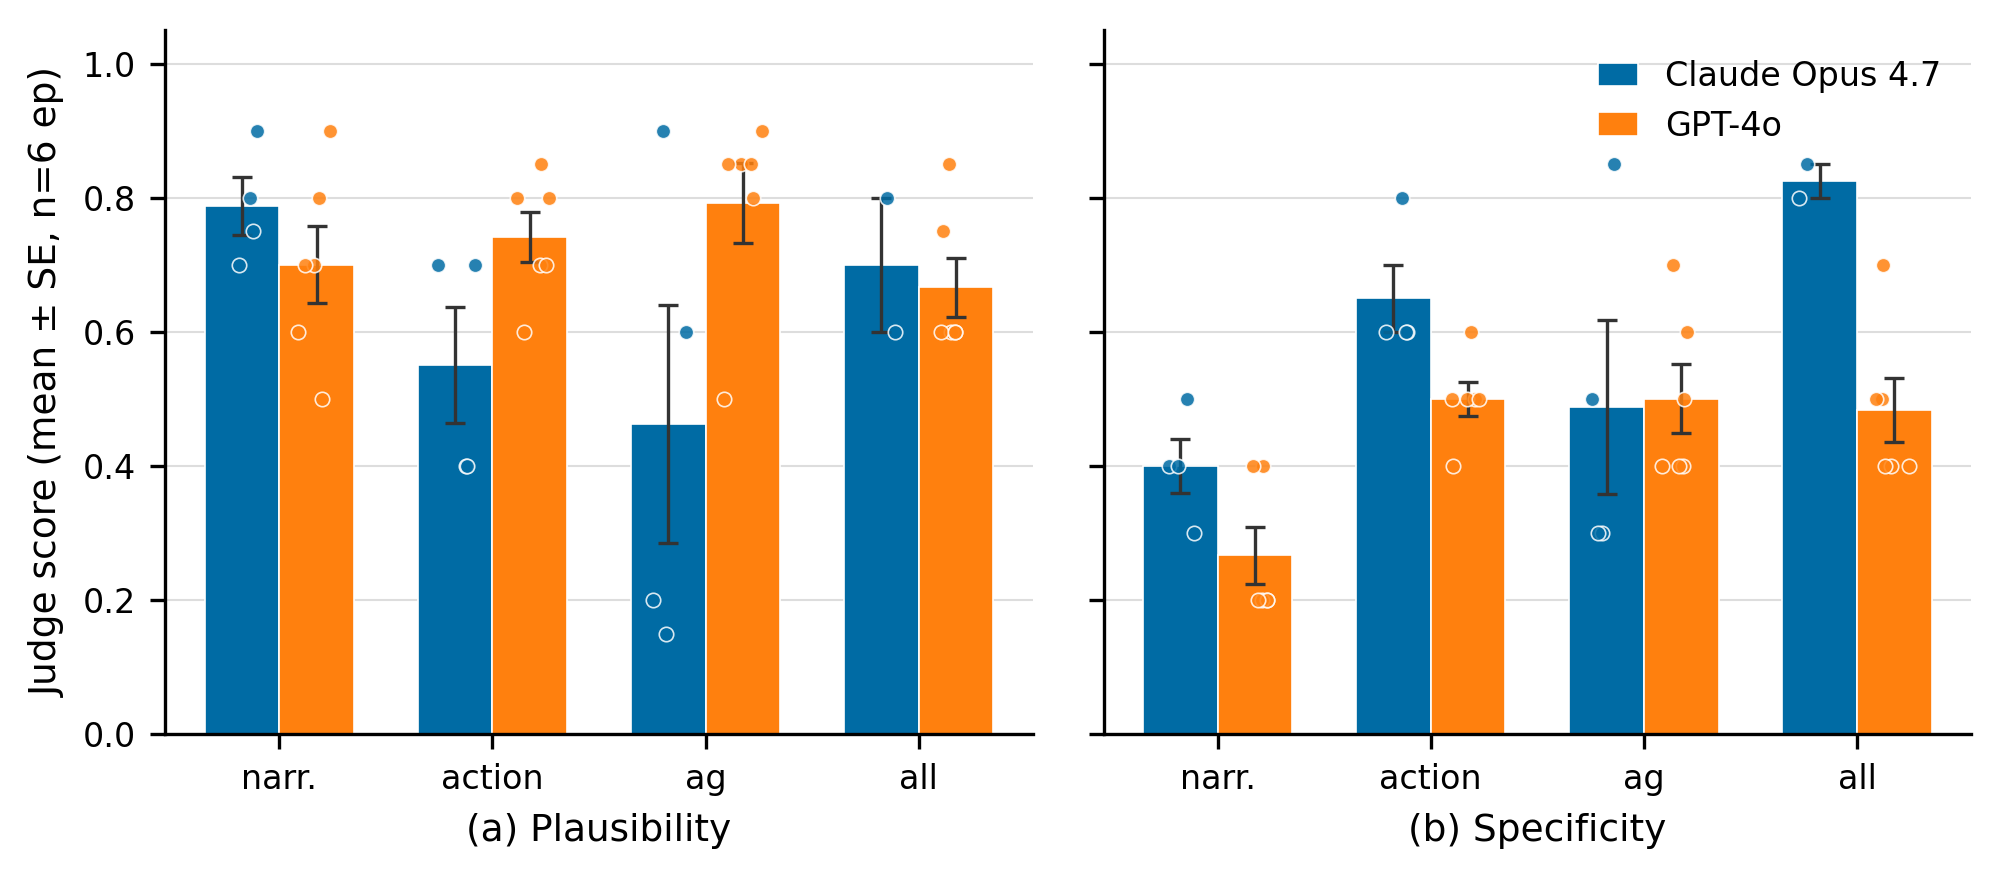
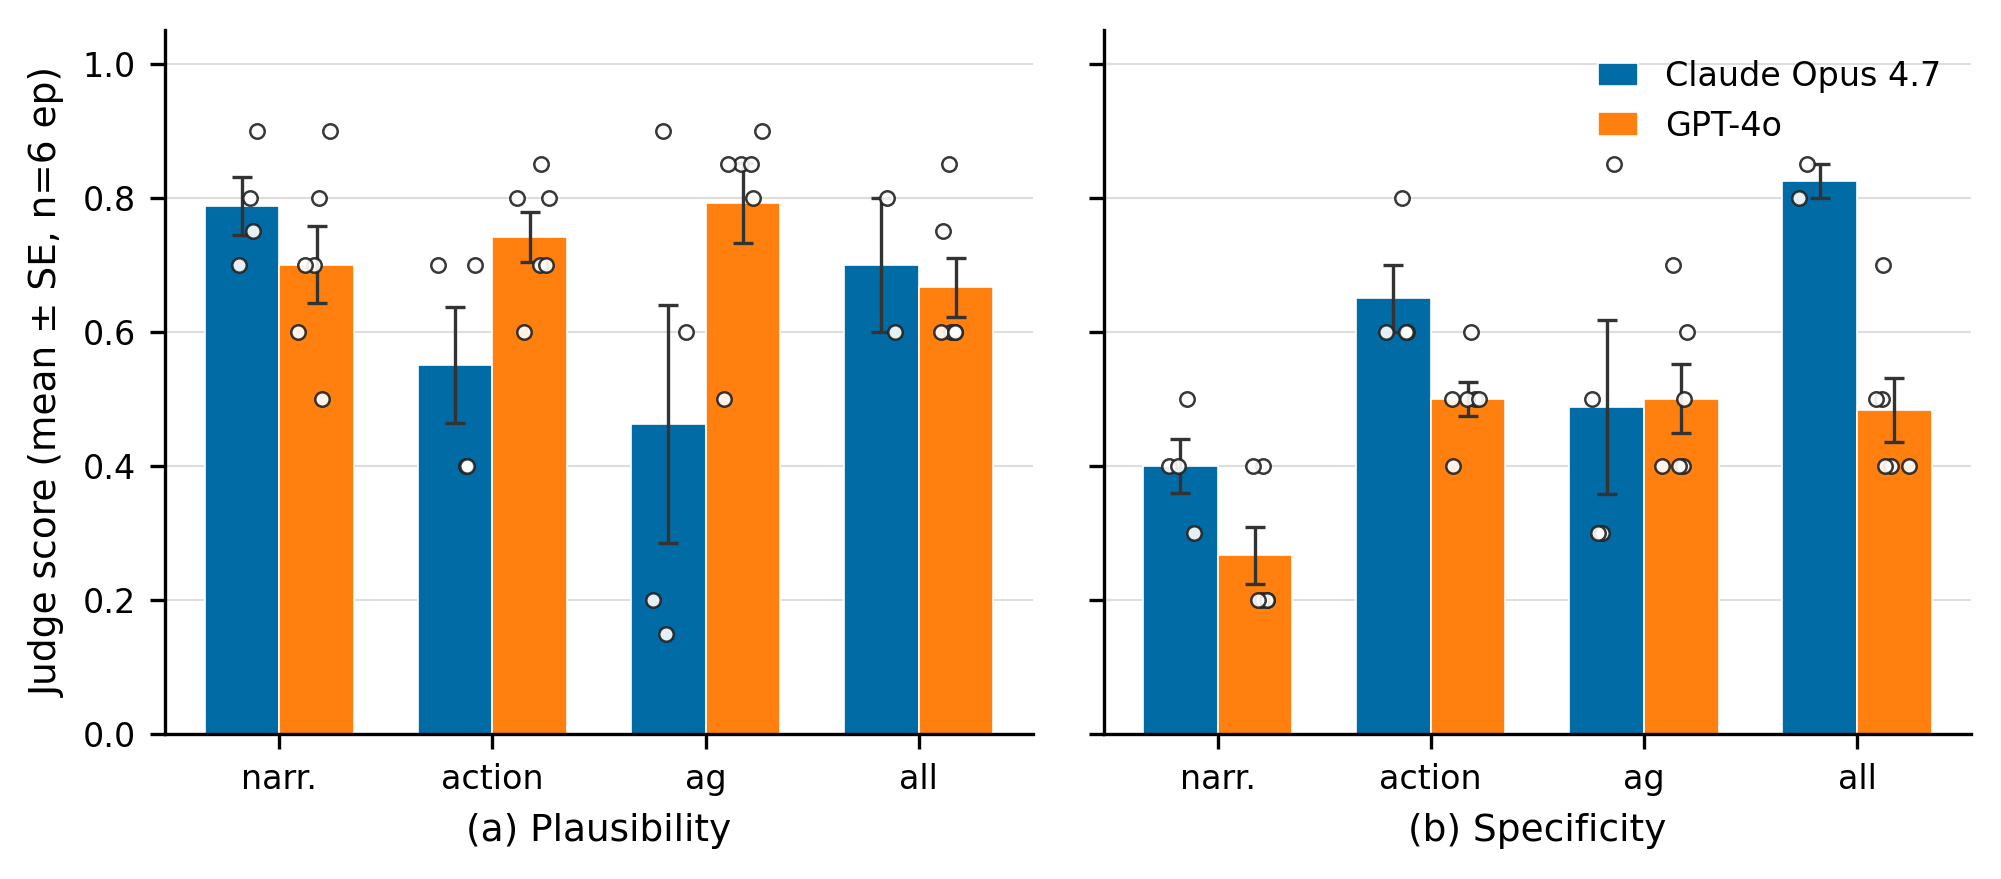
Figure audit: figN_c1v2_model_comparison — white-fill episode dots
Per-episode scatter dots were rendered as solid-filled circles matching
the bar color, making them invisible against the bars. Changed to white
fill with dark outline (#222222), consistent with fig4_averages and v5
headline conventions. Regenerated PNG + PDF at 300 DPI.

Audit note: agent_reports/figure_audit_0033.md

diff --git a/agent_reports/make_figN_c1v2_comparison_v2.py b/agent_reports/make_figN_c1v2_comparison_v2.py
@@ -141,7 +141,8 @@ def make_figure(
                 zorder=2,
             )
 
-            # Individual episode dots — jittered within the bar width
+            # Individual episode dots — white fill with dark edge so they read
+            # clearly against the coloured bars (same convention as fig4_averages)
             for j, v in enumerate(VARIANTS):
                 pts = raw.get(v, {}).get(mkey, [])
                 if pts:
@@ -149,8 +150,8 @@ def make_figure(
                     jitter = rng.uniform(-bar_w * 0.28, bar_w * 0.28, size=n_pts)
                     ax.scatter(
                         x[j] + offset + jitter, pts,
-                        s=12, color=color, edgecolors="white",
-                        linewidths=0.4, zorder=4, alpha=0.85,
+                        s=12, color="white", edgecolors="#222222",
+                        linewidths=0.6, zorder=4, alpha=0.90,
                     )
 
         # NeurIPS: no chart title — use panel letter + metric as x-axis label

diff --git a/agent_reports/figure_audit_0033.md b/agent_reports/figure_audit_0033.md
@@ -1,0 +1,5 @@
+**Figure Audit — 2026-05-13 00:33**
+
+Figures excluded (recently touched): `fig_headline_v5`, `fig_envs`, `fig_learning_curves_v2`, `figN2_cross_task_transfer`, `fig_headline_v4`, `fig_psweep`. Remaining candidates examined: `figN_c1v2_model_comparison`, `figN_c1v2_real_vs_synthetic`, `fig_morning_headline` (internal infographic), `fig4_averages`, `fig1_headline_success`, `fig3_paths_status` (status infographic), `fig2_differentiation_table` (table infographic).
+
+**Weakest figure selected: `figN_c1v2_model_comparison.png`**. The figure was otherwise NeurIPS-compliant (correct width 6.75 in, no chart title, CB-safe blue/orange palette, SE error bars, horizontal gridlines only), but the per-episode scatter dots were rendered with a solid fill matching each bar's color (`color=color, edgecolors="white"`). This made the dots nearly invisible when they landed near the bar mean, as the dot blended into the bar face — defeating their purpose of showing n=6 episode spread to skeptical reviewers. The fix (single targeted improvement): changed scatter kwargs to `color="white", edgecolors="#222222", linewidths=0.6` — white-fill, dark-edge open circles, consistent with the convention already used in `fig4_averages.png` and `fig_headline_v5.png`. Regenerated PNG and PDF at 300 DPI via the project venv. Visual verification confirms dots are now clearly legible against both blue and orange bars across all eight bar groups in both panels.
